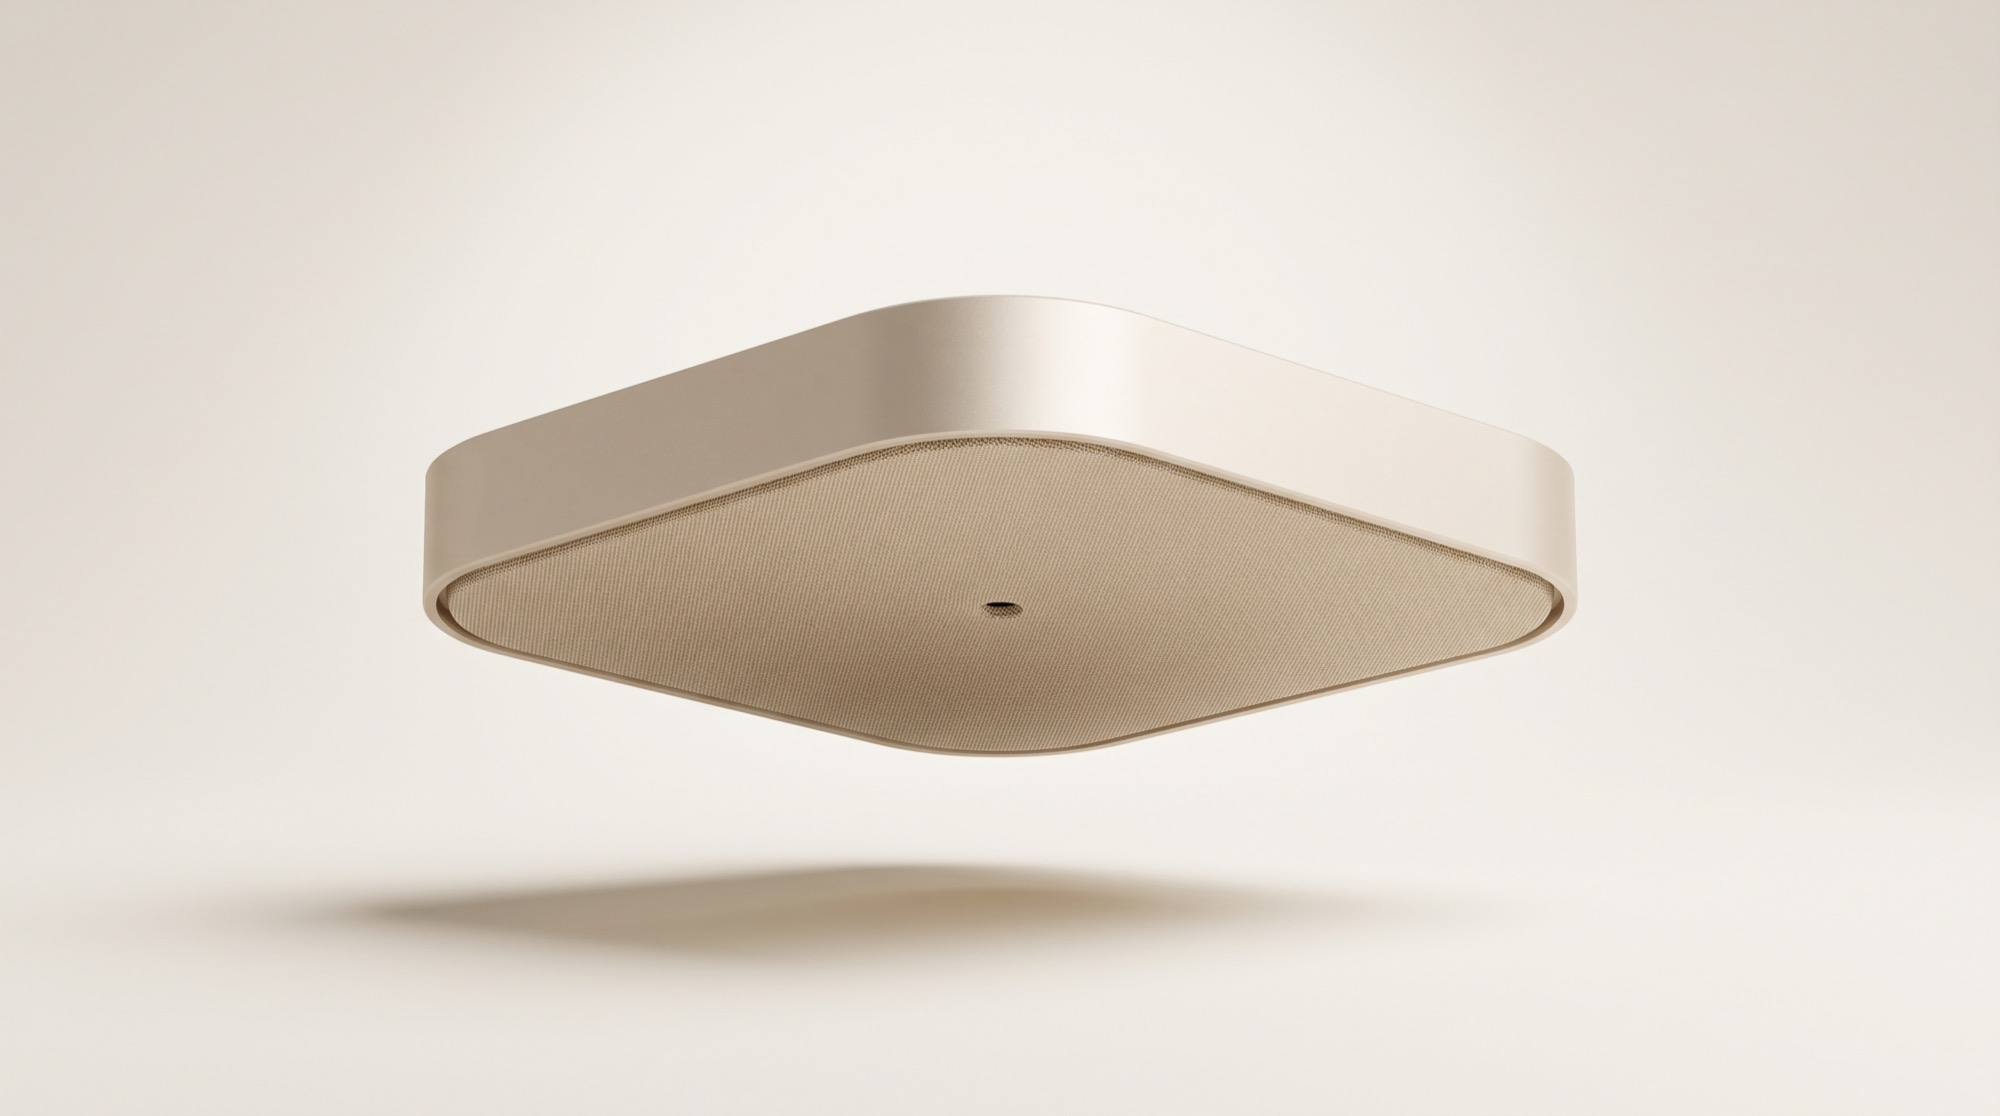
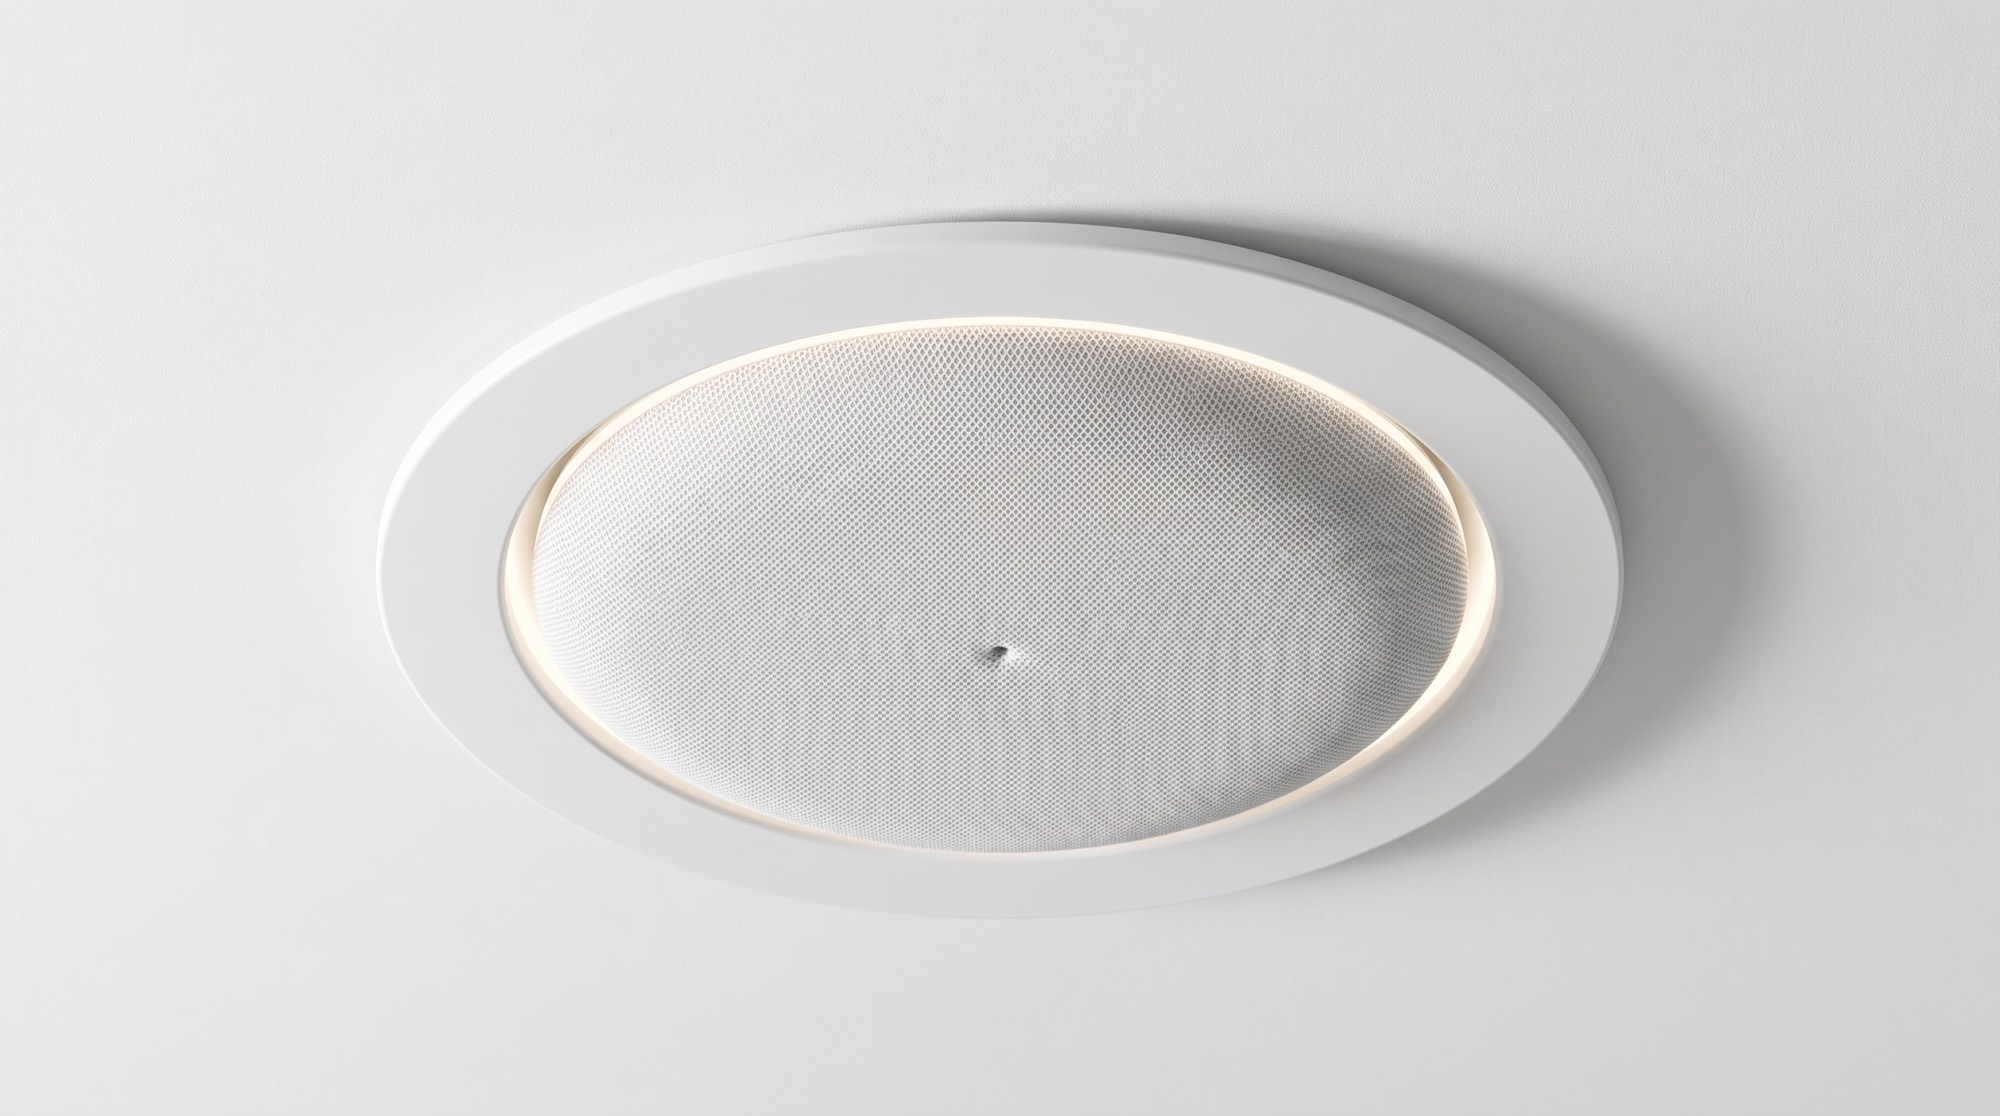
Fall Sense to the mood board: round, recessed, mesh faced, one ring of light
Harry's board for the sensor: HomePod mini, Mac mini, three in-ceiling
speakers and a recessed ceiling device with a light ring. Five of seven are
round, recessed and mesh faced. I had built the one outlier, a rounded square.
Rebuilt against the board as reference: a round white bezel flush with the
ceiling, a woven mesh face, a warm white ring at the rim, one pinhole, held in
by two spring clips like the speakers on the board. The GA redrawn to match.

Placement per Jesse: a Lautner / Frank Lloyd Wright care home, timber batten
ceiling, stone wall, glass to the bush. Copy rewritten so it no longer
describes an aluminium square.

diff --git a/src/pages/fallsense.html b/src/pages/fallsense.html
@@ -30,8 +30,8 @@
   <section class="story">
     <div class="wrap">
       <figure class="bleed">
-        <img src="{{root}}img/fallsense/unit.jpg" alt="The Fall Sense unit seen from below: a shallow rounded square in champagne anodised aluminium with a woven oat fabric face and a single pinhole at the centre" loading="lazy" width="2000" height="1116">
-        <figcaption class="label"><span>The unit. 120 mm across, 22 mm deep, one pinhole</span><span>Concept visualisation</span></figcaption>
+        <img src="{{root}}img/fallsense/unit.jpg" alt="The Fall Sense unit seen from below: a round white bezel flush with the ceiling, a fine white mesh face, a thin ring of warm light at the rim and a single pinhole at the centre" loading="lazy" width="2000" height="1116">
+        <figcaption class="label"><span>The unit. Recessed, mesh faced, one pinhole, one ring of light</span><span>Concept visualisation</span></figcaption>
       </figure>
 
       <h2>The problem</h2>
@@ -47,13 +47,13 @@
       </div>
 
       <figure>
-        <img src="{{root}}img/fallsense/room.jpg" alt="A care home bedroom finished like a boutique hotel suite, oak panelling and sheer curtains in late light, the Fall Sense unit small on the ceiling" loading="lazy" width="2000" height="1116">
-        <figcaption class="label"><span>In the room. It has to earn its place on a ceiling like this</span><span>Concept visualisation</span></figcaption>
+        <img src="{{root}}img/fallsense/room.jpg" alt="A care home bedroom in the manner of Frank Lloyd Wright: timber batten ceiling, stone wall, glass to the bush, the Fall Sense unit recessed small in the ceiling" loading="lazy" width="2000" height="1116">
+        <figcaption class="label"><span>In the room. It has to earn its place in a ceiling like this</span><span>Concept visualisation</span></figcaption>
       </figure>
 
       <figure>
-        <img src="{{root}}img/fallsense/ga.jpg" alt="General arrangement drawing of the ceiling unit: plan from below, side elevation and a section through the mounting plate and the plasterboard" loading="lazy" width="2000" height="1493">
-        <figcaption class="label"><span>General arrangement, ceiling mount</span><span>Design drawing</span></figcaption>
+        <img src="{{root}}img/fallsense/ga.jpg" alt="General arrangement drawing of the recessed unit: plan from below with the mesh face, side elevation, and a section through the plasterboard showing the can and the spring clips" loading="lazy" width="2000" height="1493">
+        <figcaption class="label"><span>General arrangement, recessed</span><span>Design drawing</span></figcaption>
       </figure>
 
       <figure class="inset">
@@ -63,7 +63,7 @@
 
       <h2>The stack</h2>
       <div class="txt">
-        <p>A rounded square machined from one piece of anodised aluminium, 22 mm deep, with a woven fabric face and no visible screws, vents or lights. It is designed to the standard of the objects people already choose to have in their homes, because a care home bedroom is one. Edge compute on the board, so the model runs in the room. Python and Postgres behind it, and the same dashboard our kitchen managers use, because we had already written it.</p>
+        <p>A round unit that recesses into the ceiling on two spring clips, the way a good in-ceiling speaker does, with a fine woven mesh face and a thin ring of warm light at the rim that is the only thing it ever shows. No visible screws, no vents, no lens you can see. It is designed to the standard of the objects people already choose to have in their homes, because a care home bedroom is one. Edge compute on the board, so the model runs in the room. Python and Postgres behind it, and the same dashboard our kitchen managers use, because we had already written it.</p>
         <p>Firmware updates over the air. When one stops reporting, it tells us before it tells you.</p>
       </div>
 

diff --git a/work/fall-sense/index.html b/work/fall-sense/index.html
@@ -728,8 +728,8 @@
   <section class="story">
     <div class="wrap">
       <figure class="bleed">
-        <img src="../../img/fallsense/unit.jpg" alt="The Fall Sense unit seen from below: a shallow rounded square in champagne anodised aluminium with a woven oat fabric face and a single pinhole at the centre" loading="lazy" width="2000" height="1116">
-        <figcaption class="label"><span>The unit. 120 mm across, 22 mm deep, one pinhole</span><span>Concept visualisation</span></figcaption>
+        <img src="../../img/fallsense/unit.jpg" alt="The Fall Sense unit seen from below: a round white bezel flush with the ceiling, a fine white mesh face, a thin ring of warm light at the rim and a single pinhole at the centre" loading="lazy" width="2000" height="1116">
+        <figcaption class="label"><span>The unit. Recessed, mesh faced, one pinhole, one ring of light</span><span>Concept visualisation</span></figcaption>
       </figure>
 
       <h2>The problem</h2>
@@ -745,13 +745,13 @@
       </div>
 
       <figure>
-        <img src="../../img/fallsense/room.jpg" alt="A care home bedroom finished like a boutique hotel suite, oak panelling and sheer curtains in late light, the Fall Sense unit small on the ceiling" loading="lazy" width="2000" height="1116">
-        <figcaption class="label"><span>In the room. It has to earn its place on a ceiling like this</span><span>Concept visualisation</span></figcaption>
+        <img src="../../img/fallsense/room.jpg" alt="A care home bedroom in the manner of Frank Lloyd Wright: timber batten ceiling, stone wall, glass to the bush, the Fall Sense unit recessed small in the ceiling" loading="lazy" width="2000" height="1116">
+        <figcaption class="label"><span>In the room. It has to earn its place in a ceiling like this</span><span>Concept visualisation</span></figcaption>
       </figure>
 
       <figure>
-        <img src="../../img/fallsense/ga.jpg" alt="General arrangement drawing of the ceiling unit: plan from below, side elevation and a section through the mounting plate and the plasterboard" loading="lazy" width="2000" height="1493">
-        <figcaption class="label"><span>General arrangement, ceiling mount</span><span>Design drawing</span></figcaption>
+        <img src="../../img/fallsense/ga.jpg" alt="General arrangement drawing of the recessed unit: plan from below with the mesh face, side elevation, and a section through the plasterboard showing the can and the spring clips" loading="lazy" width="2000" height="1493">
+        <figcaption class="label"><span>General arrangement, recessed</span><span>Design drawing</span></figcaption>
       </figure>
 
       <figure class="inset">
@@ -761,7 +761,7 @@
 
       <h2>The stack</h2>
       <div class="txt">
-        <p>A rounded square machined from one piece of anodised aluminium, 22 mm deep, with a woven fabric face and no visible screws, vents or lights. It is designed to the standard of the objects people already choose to have in their homes, because a care home bedroom is one. Edge compute on the board, so the model runs in the room. Python and Postgres behind it, and the same dashboard our kitchen managers use, because we had already written it.</p>
+        <p>A round unit that recesses into the ceiling on two spring clips, the way a good in-ceiling speaker does, with a fine woven mesh face and a thin ring of warm light at the rim that is the only thing it ever shows. No visible screws, no vents, no lens you can see. It is designed to the standard of the objects people already choose to have in their homes, because a care home bedroom is one. Edge compute on the board, so the model runs in the room. Python and Postgres behind it, and the same dashboard our kitchen managers use, because we had already written it.</p>
         <p>Firmware updates over the air. When one stops reporting, it tells us before it tells you.</p>
       </div>
 
